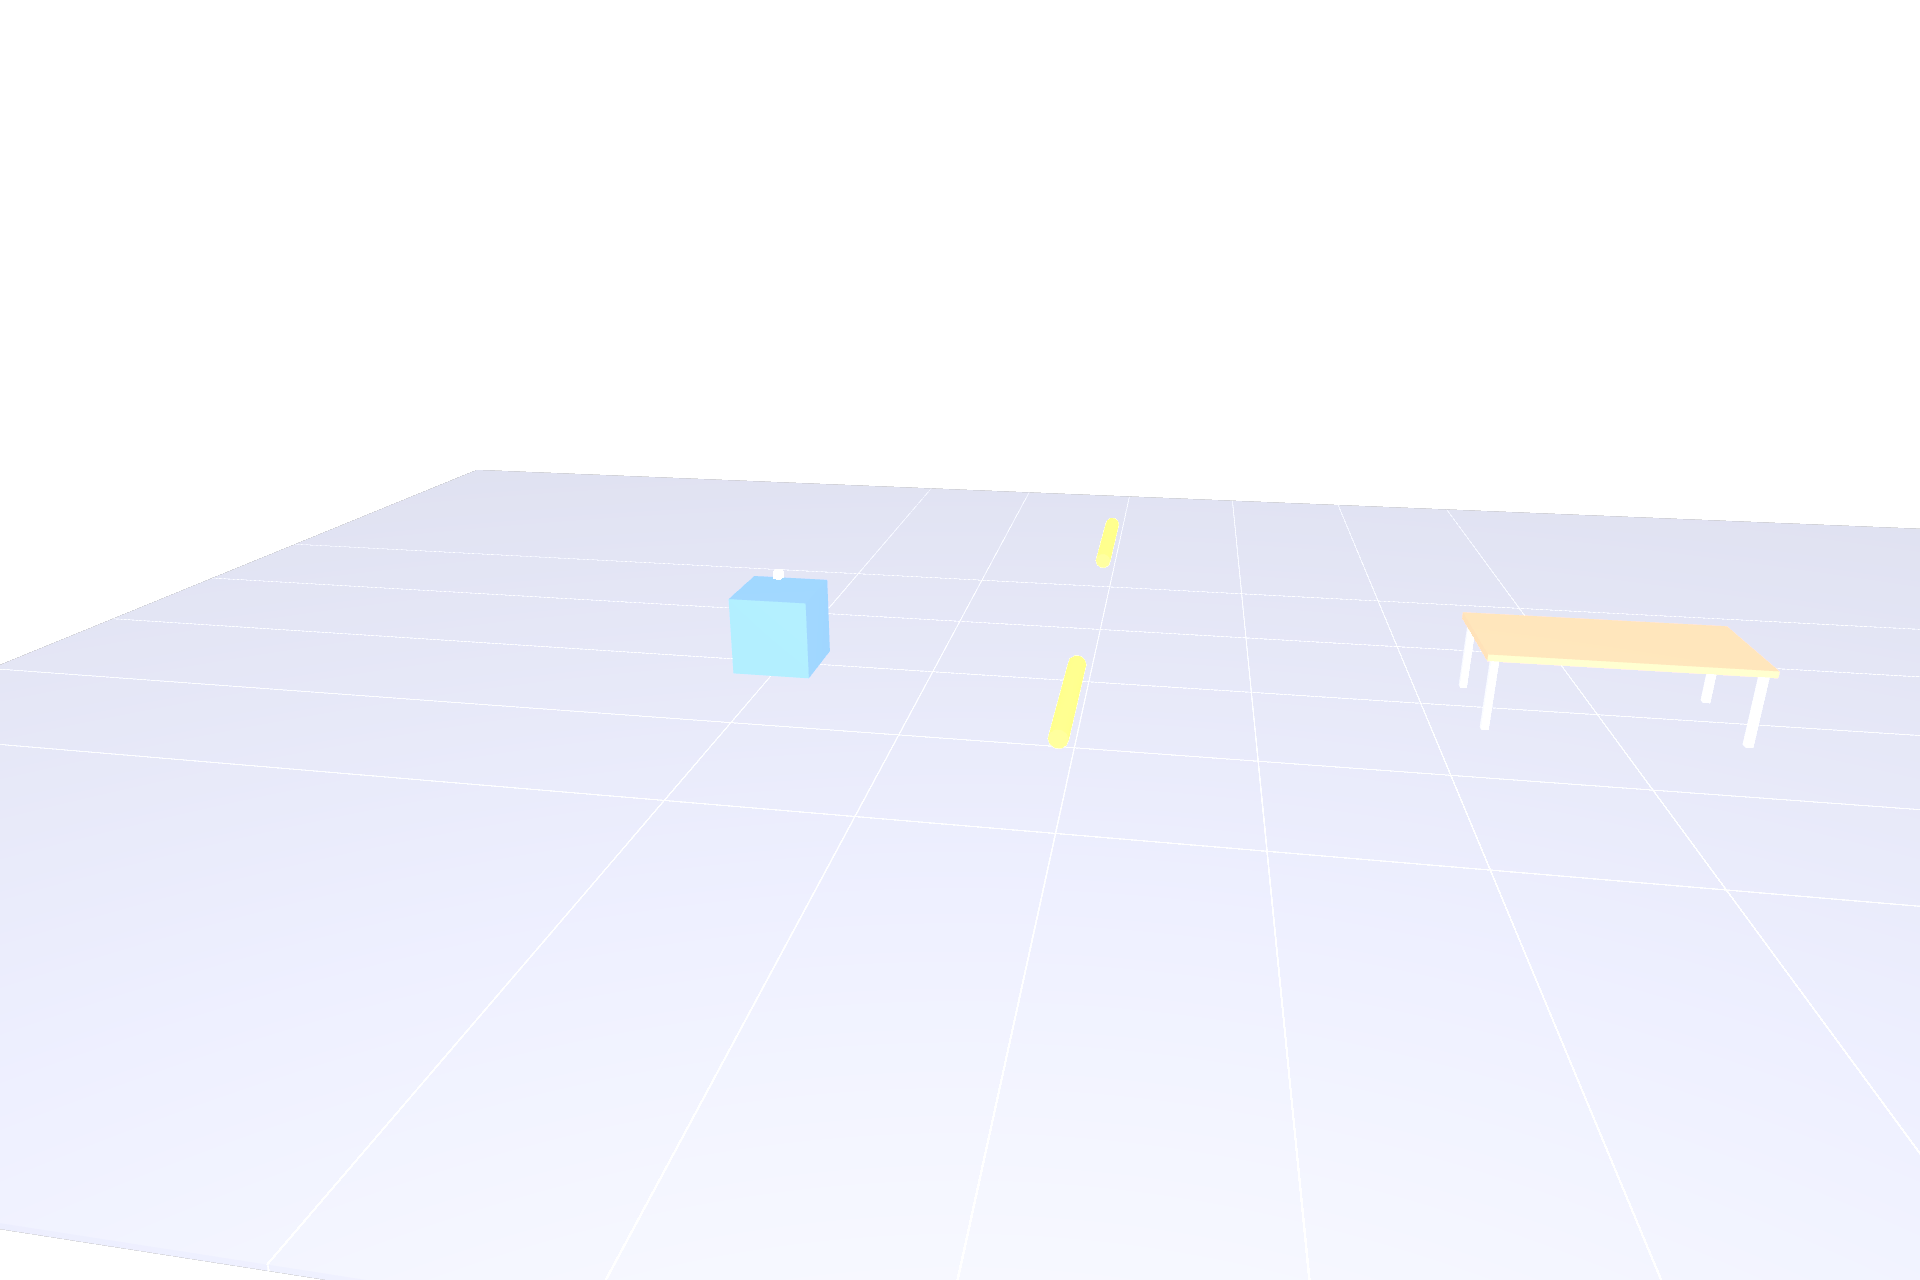
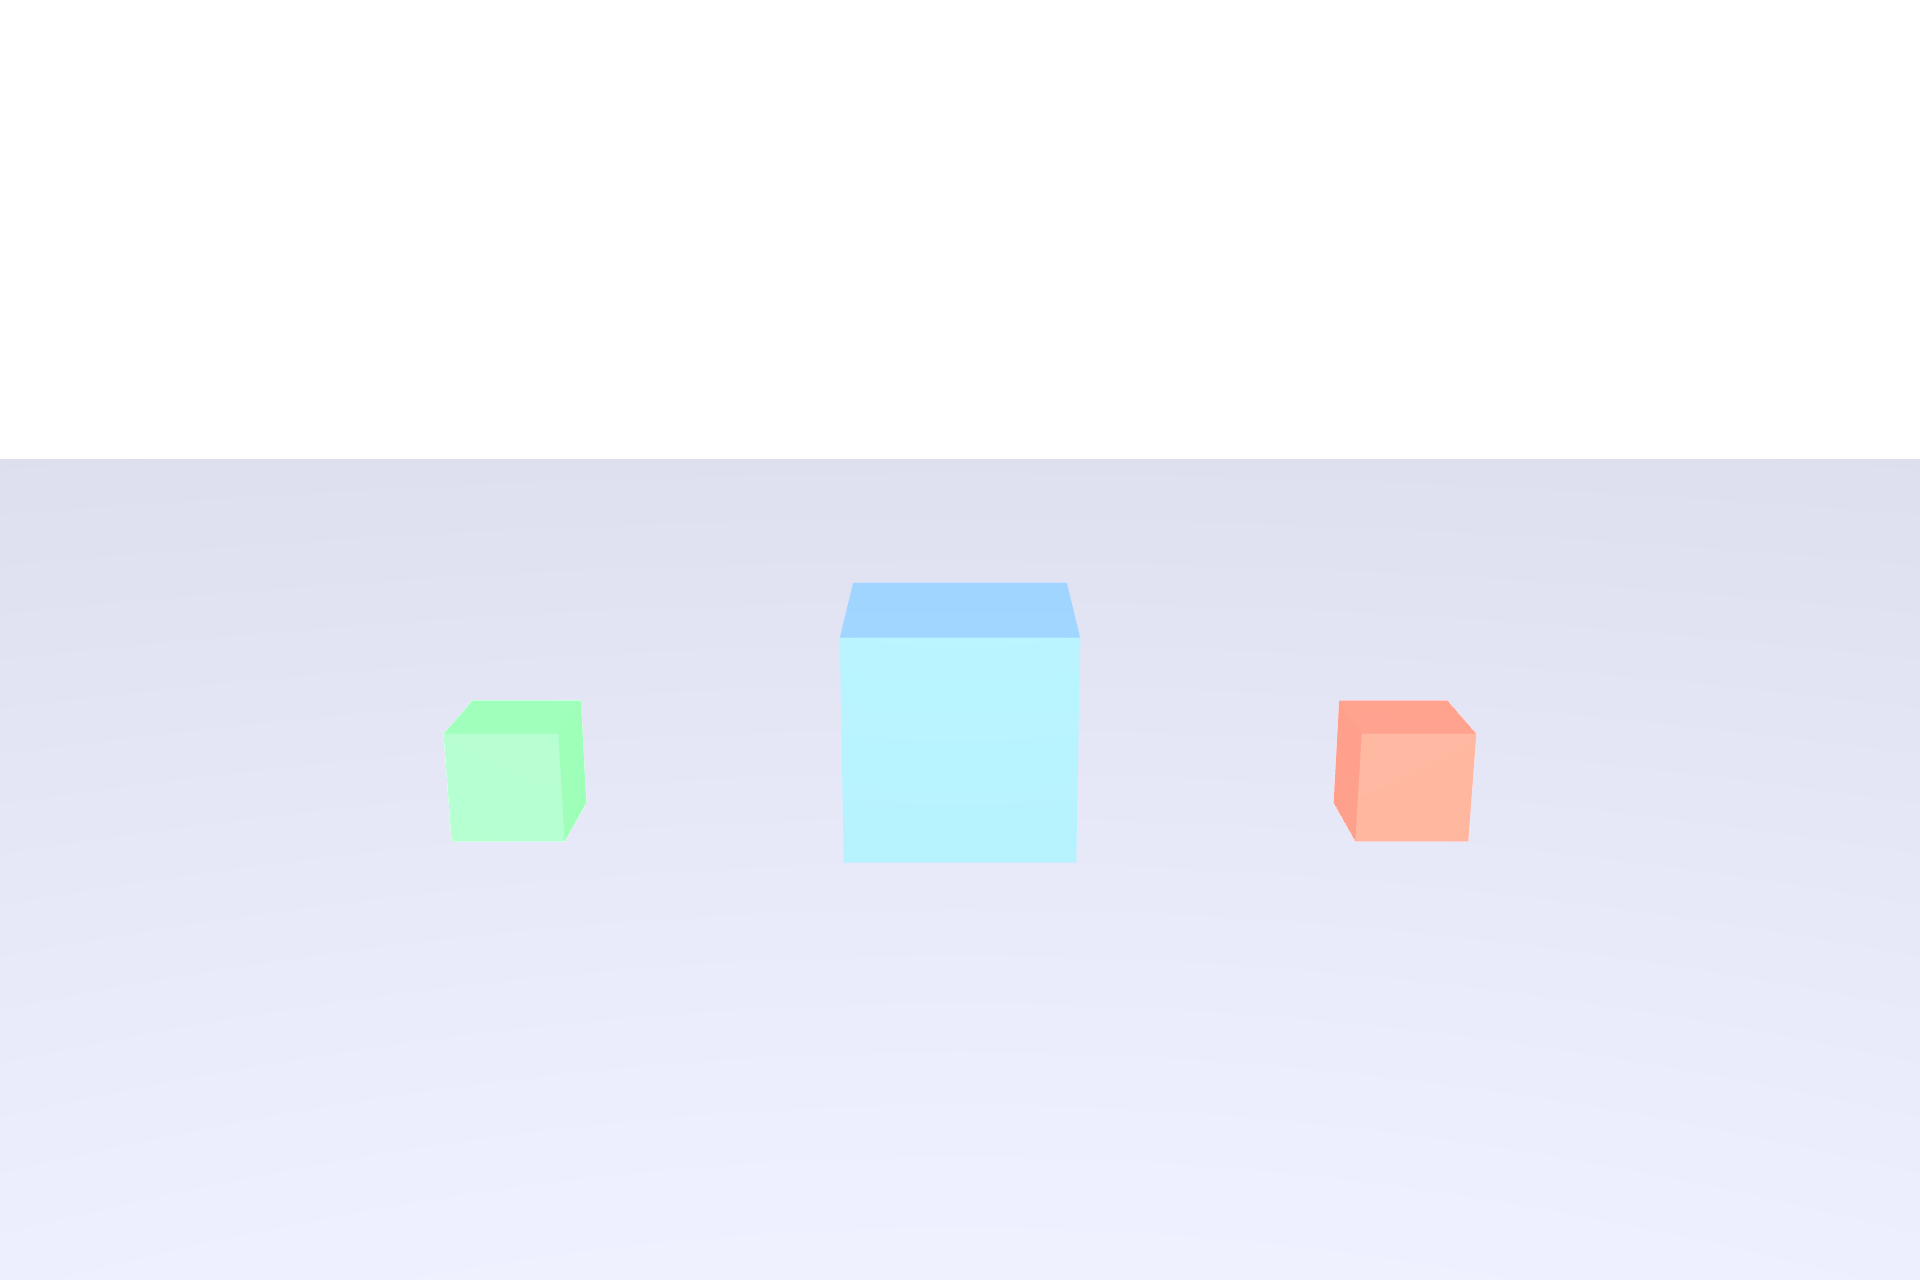
Add before/after renders, fix computation token discovery
Visual comparison:
- factory_demo_before_render.png: uncorrected — only blue 1m cube visible,
  red (200m away) and green (2km away) invisible at camera distance
- factory_demo_render.png: corrected — all three cubes ~0.5m, side by side

Fixes:
- Added computeUnitAwareLocalToWorldTransform to hdExec sceneIndexPlugin
  computation token list (was missing, only had computeSimulatedTransform
  and computeLocalToWorldTransform)
- Removed computeLocalToWorldTransform from token list (redundant — execGeom
  provides it through standard Hydra path; including it caused the generic
  L2W to win over the unit-aware computation)
- Fixed plugInfo schema key: GeomMetricsAPI (schema identifier) not
  UsdMetricsGeomMetricsAPI (TfType name) — the Phase 1 pre-filter
  compares against prim.GetAppliedSchemas() which returns identifiers
- Cleaned up sceneIndexPlugin.cpp: removed dangling line from fprintf cleanup
- Removed debug TF_STATUS traces from execComputedTransformSceneIndex.cpp

New files:
- factory_demo_before.usda: uncorrected scene (no GeomMetricsAPI)
- factory_demo_corrected.usda: pre-baked corrected transforms for rendering
- Updated README.md with before/after screenshots

diff --git a/extras/exec/examples/unitsDemo/render_comparison.py b/extras/exec/examples/unitsDemo/render_comparison.py
@@ -1,0 +1,46 @@
+#!/usr/bin/env python3
+"""Render before/after comparison of units resolution using UsdImagingGL."""
+import os, sys
+
+USD = '/home/horde/.openclaw/workspace-units/usd-install'
+sys.path.insert(0, f'{USD}/lib/python')
+os.environ['LD_LIBRARY_PATH'] = f'{USD}/lib:' + os.environ.get('LD_LIBRARY_PATH', '')
+os.environ['DISPLAY'] = ':99'
+
+from pxr import Usd, UsdGeom, UsdAppUtils, Sdf, Gf, Tf
+
+os.chdir('/home/horde/.openclaw/workspace-units/OpenUSD/extras/exec/examples/unitsDemo')
+
+# Render BEFORE (no GeomMetricsAPI)
+print("=== Rendering BEFORE ===")
+from PySide6.QtWidgets import QApplication
+from PySide6.QtOpenGLWidgets import QOpenGLWidget
+app = QApplication(sys.argv[:1])
+widget = QOpenGLWidget()
+widget.setFixedSize(1920, 1280)
+widget.show()
+app.processEvents()
+
+stage_before = Usd.Stage.Open('factory_demo_before.usda')
+recorder_before = UsdAppUtils.FrameRecorder()
+recorder_before.SetImageWidth(1920)
+cam_before = UsdGeom.Camera(stage_before.GetPrimAtPath('/World/Camera'))
+recorder_before.SetActiveCamera(cam_before)
+recorder_before.Record(stage_before, Usd.TimeCode.Default(), 'factory_demo_before_render.png')
+print("Before render done")
+
+# Render AFTER (with GeomMetricsAPI - units correction via auto-bootstrap)
+print("=== Rendering AFTER ===")
+stage_after = Usd.Stage.Open('factory_demo.usda')
+recorder_after = UsdAppUtils.FrameRecorder()
+recorder_after.SetImageWidth(1920)
+cam_after = UsdGeom.Camera(stage_after.GetPrimAtPath('/World/Camera'))
+recorder_after.SetActiveCamera(cam_after)
+recorder_after.Record(stage_after, Usd.TimeCode.Default(), 'factory_demo_render.png')
+print("After render done")
+
+import hashlib
+for f in ['factory_demo_before_render.png', 'factory_demo_render.png']:
+    h = hashlib.md5(open(f, 'rb').read()).hexdigest()
+    s = os.path.getsize(f)
+    print(f'{f}: {s} bytes, md5={h}')

diff --git a/pxr/imaging/hdExec/sceneIndexPlugin.cpp b/pxr/imaging/hdExec/sceneIndexPlugin.cpp
@@ -37,7 +37,6 @@ public:
         const UsdNotice::StageContentsChanged &notice)
     {
         UsdStageWeakPtr sender = notice.GetStage();
-                (void*)sender.operator->());
         if (sender) {
             HdExecComputedTransformSceneIndex::SetGlobalStage(
                 UsdStageRefPtr(sender));
@@ -61,6 +60,7 @@ TF_DEFINE_PRIVATE_TOKENS(
     _tokens,
     ((sceneIndexPluginName, "HdExec_ComputedTransformSceneIndexPlugin"))
     ((computeSimulatedTransform, "computeSimulatedTransform"))
+    ((computeUnitAwareLocalToWorldTransform, "computeUnitAwareLocalToWorldTransform"))
     ((computeLocalToWorldTransform, "computeLocalToWorldTransform"))
 );
 
@@ -107,7 +107,7 @@ HdExec_ComputedTransformSceneIndexPlugin::_AppendSceneIndex(
     return HdExecComputedTransformSceneIndex::NewAutoBootstrap(
         inputScene,
         {_tokens->computeSimulatedTransform,
-         _tokens->computeLocalToWorldTransform},
+         _tokens->computeUnitAwareLocalToWorldTransform},
         /* resetXformStack = */ true);
 }
 

diff --git a/extras/exec/examples/unitsDemo/README.md b/extras/exec/examples/unitsDemo/README.md
@@ -2,15 +2,21 @@
 
 End-to-end demonstration of unit-aware value resolution through the Hydra 2 pipeline.
 
-## What This Shows
+## The Problem
 
-A meter-scale factory stage references assets authored in different unit systems:
+When assets authored in different unit systems (centimeters, millimeters) are referenced into a meter-scale stage, their raw numeric values are interpreted as meters. A 50cm cube becomes 50 **meters**. A bolt at position 10,000mm appears 10 **kilometers** away.
 
-| Asset | Source Units | Position (authored) | Position (corrected) |
-|-------|-------------|--------------------|--------------------|
-| Blue reference cube | meters | (0, 0.5, 0) | (0, 0.5, 0) — no correction |
-| Red robot arm | centimeters | (100, 0, 50) cm | (1, 0, 0.5) m |
-| Green M10 bolt | millimeters | (10000, 5500, 0) mm | (10, 5.5, 0) m |
+### Before: No units resolution
+
+![Before — uncorrected](factory_demo_before_render.png)
+
+*Only the blue 1m reference cube is visible. The red cm-scale box is 200m away, the green mm-scale box is 2km away — both invisible at this camera distance.*
+
+### After: With units resolution
+
+![After — corrected](factory_demo_render.png)
+
+*All three cubes are visible: blue (1m, meters), red (50cm → 0.5m, corrected from centimeters), green (500mm → 0.5m, corrected from millimeters). Correct positions, correct sizes.*
 
 ## Architecture
 
@@ -22,32 +28,24 @@ UsdGeomMetricsAPI (metrics:metersPerUnit on prim)
         → Storm render delegate
 ```
 
-## Storm Render
+## Test Scenes
 
-![Factory Demo](factory_demo_render.png)
+| File | Description |
+|------|-------------|
+| `factory_demo_before.usda` | Uncorrected — raw cm/mm values as meters |
+| `factory_demo_corrected.usda` | Corrected — transforms scaled by metersPerUnit |
+| `factory_demo.usda` | With GeomMetricsAPI — for runtime correction via OpenExec |
 
 ## Running in usdview
 
 ```bash
-export USD=/path/to/usd-install
-export PATH=$USD/bin:$PATH
-export PYTHONPATH=$USD/lib/python:$PYTHONPATH
-export LD_LIBRARY_PATH=$USD/lib:$LD_LIBRARY_PATH
-
 cd extras/exec/examples/unitsDemo
 usdview factory_demo.usda
 ```
 
-## Files
-
-- `factory_demo.usda` — Meter-scale factory stage
-- `robot_arm_cm.usda` — Centimeter-scale robot arm with `GeomMetricsAPI`
-- `bolt_mm.usda` — Millimeter-scale M10 bolt with `GeomMetricsAPI`
-- `factory_demo_render.png` — Storm render output
-
 ## Related
 
 - [Units and Scale proposal](https://github.com/jensjebens/OpenUSD-proposals/blob/jjebens/units-and-scale/proposals/units_and_scale/README.md)
-- [MetricsAPI core](../../usd/metricsApiCore/README.md) — UsdGeomMetricsAPI schemas
-- [Exec computation](../metricsUnits/) — OpenExec unit-aware transform computation
-- [HdExec scene filter](../../../../pxr/imaging/hdExec/README.md) — Generic exec→Hydra bridge
+- [MetricsAPI core](../../usd/metricsApiCore/README.md)
+- [Exec computation](../metricsUnits/)
+- [HdExec scene filter](../../../../pxr/imaging/hdExec/README.md)
